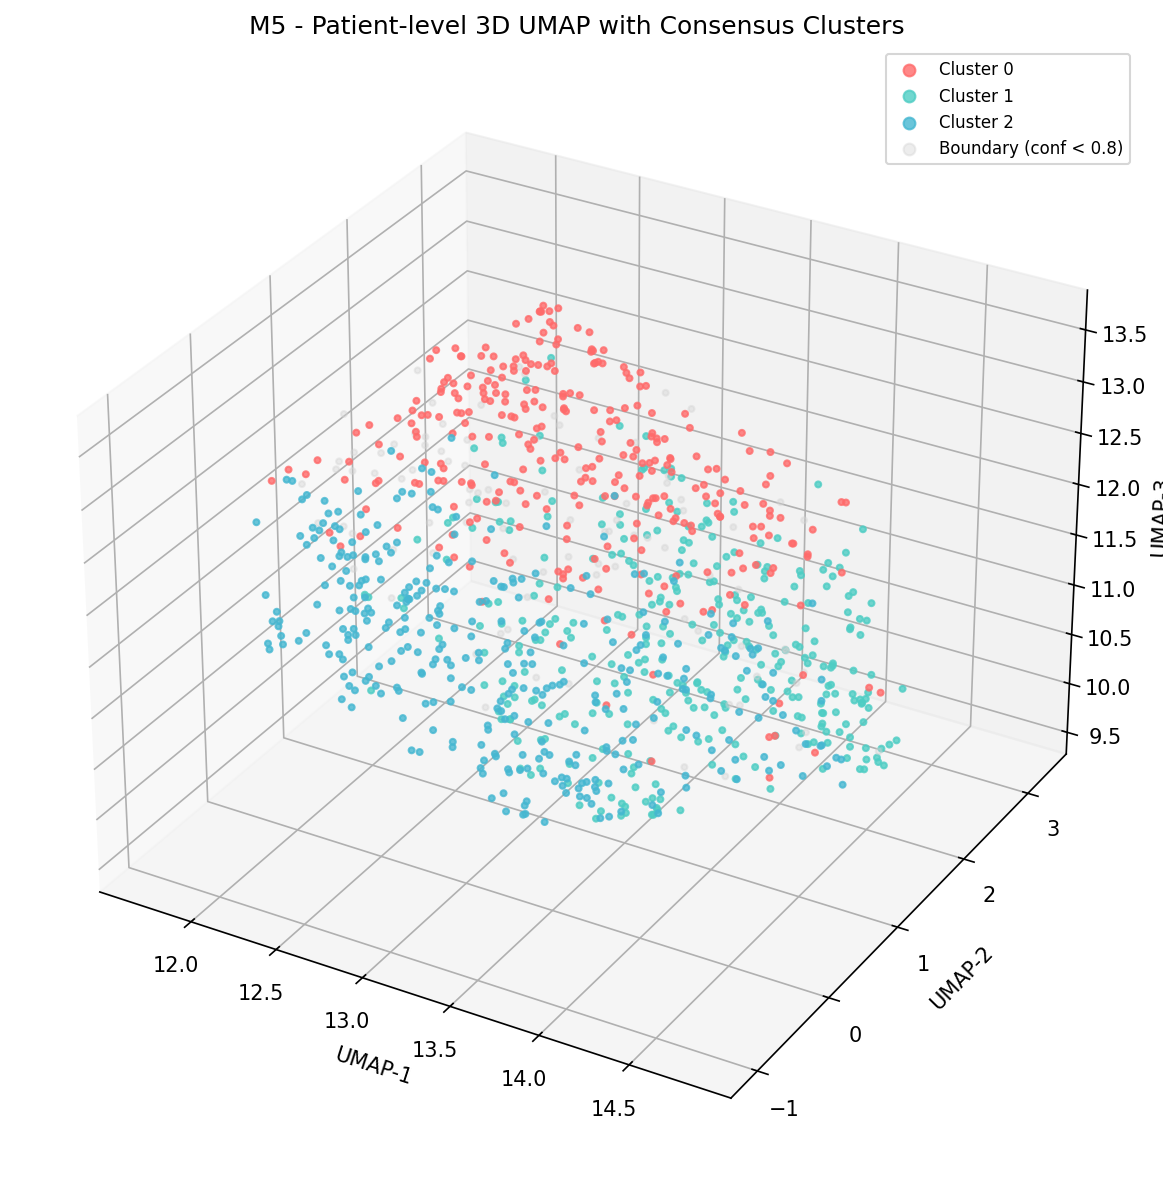
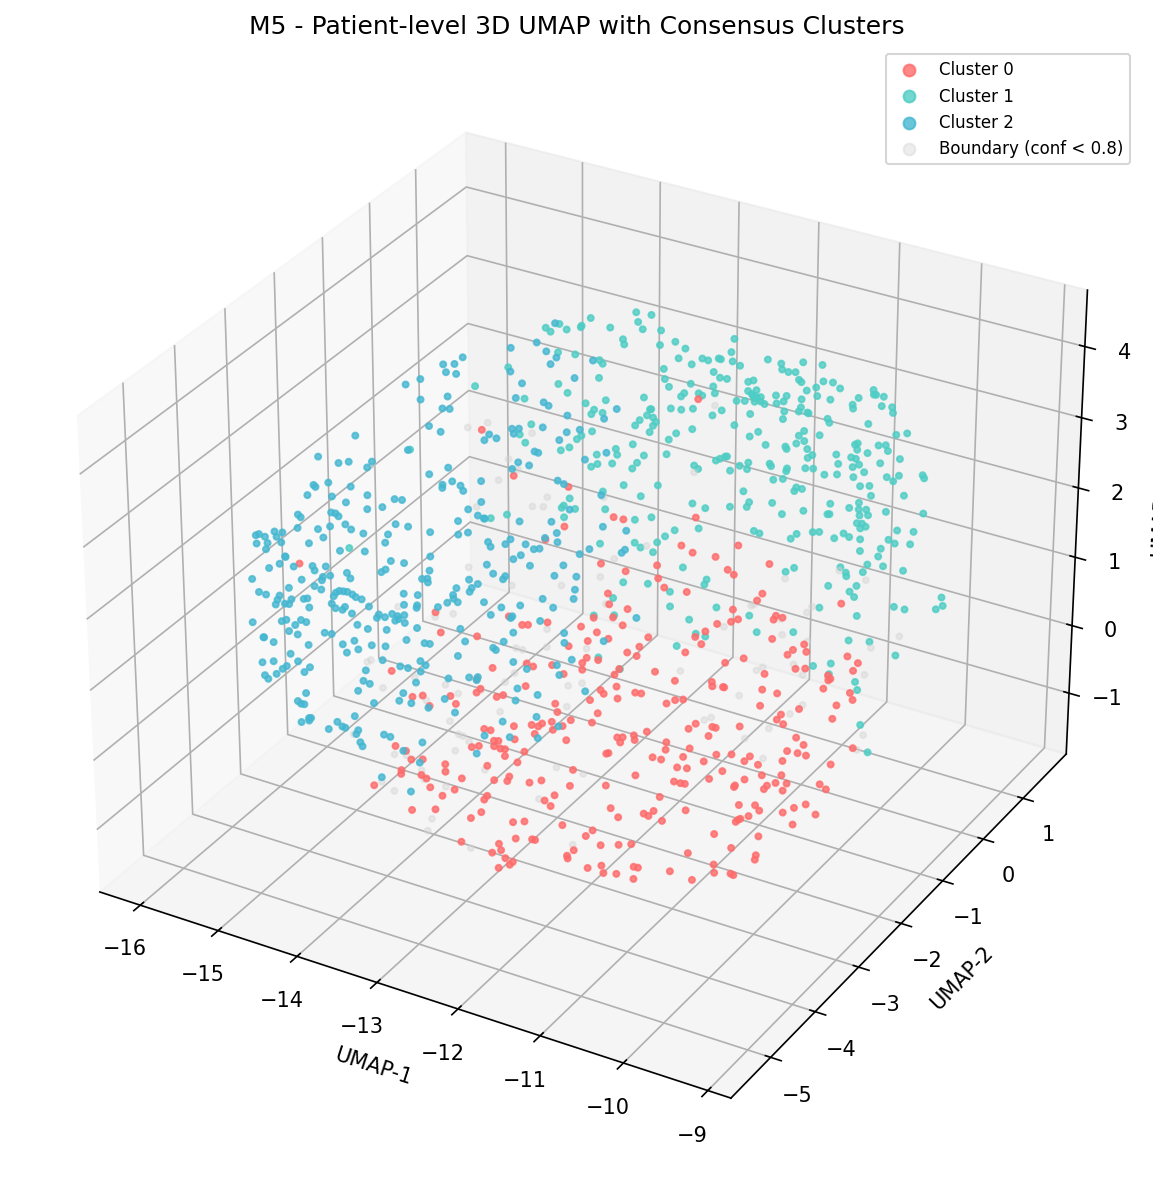
feat: 优化 UMAP 参数让簇分离更明显
- n_neighbors: 15 -> 50（更强的全局结构）
- min_dist: 0.1 -> 0.01（更紧凑的簇）
- spread: 2.0（更大的簇间距离）

diff --git a/scripts/rebuild_umap.py b/scripts/rebuild_umap.py
@@ -63,10 +63,11 @@ def generate_umap_3d(embeddings):
     from umap import UMAP
     reducer = UMAP(
         n_components=3,
-        n_neighbors=15,
-        min_dist=0.1,
+        n_neighbors=50,
+        min_dist=0.01,
         metric='cosine',
         random_state=42,
+        spread=2.0,
     )
     return reducer.fit_transform(embeddings)
 
